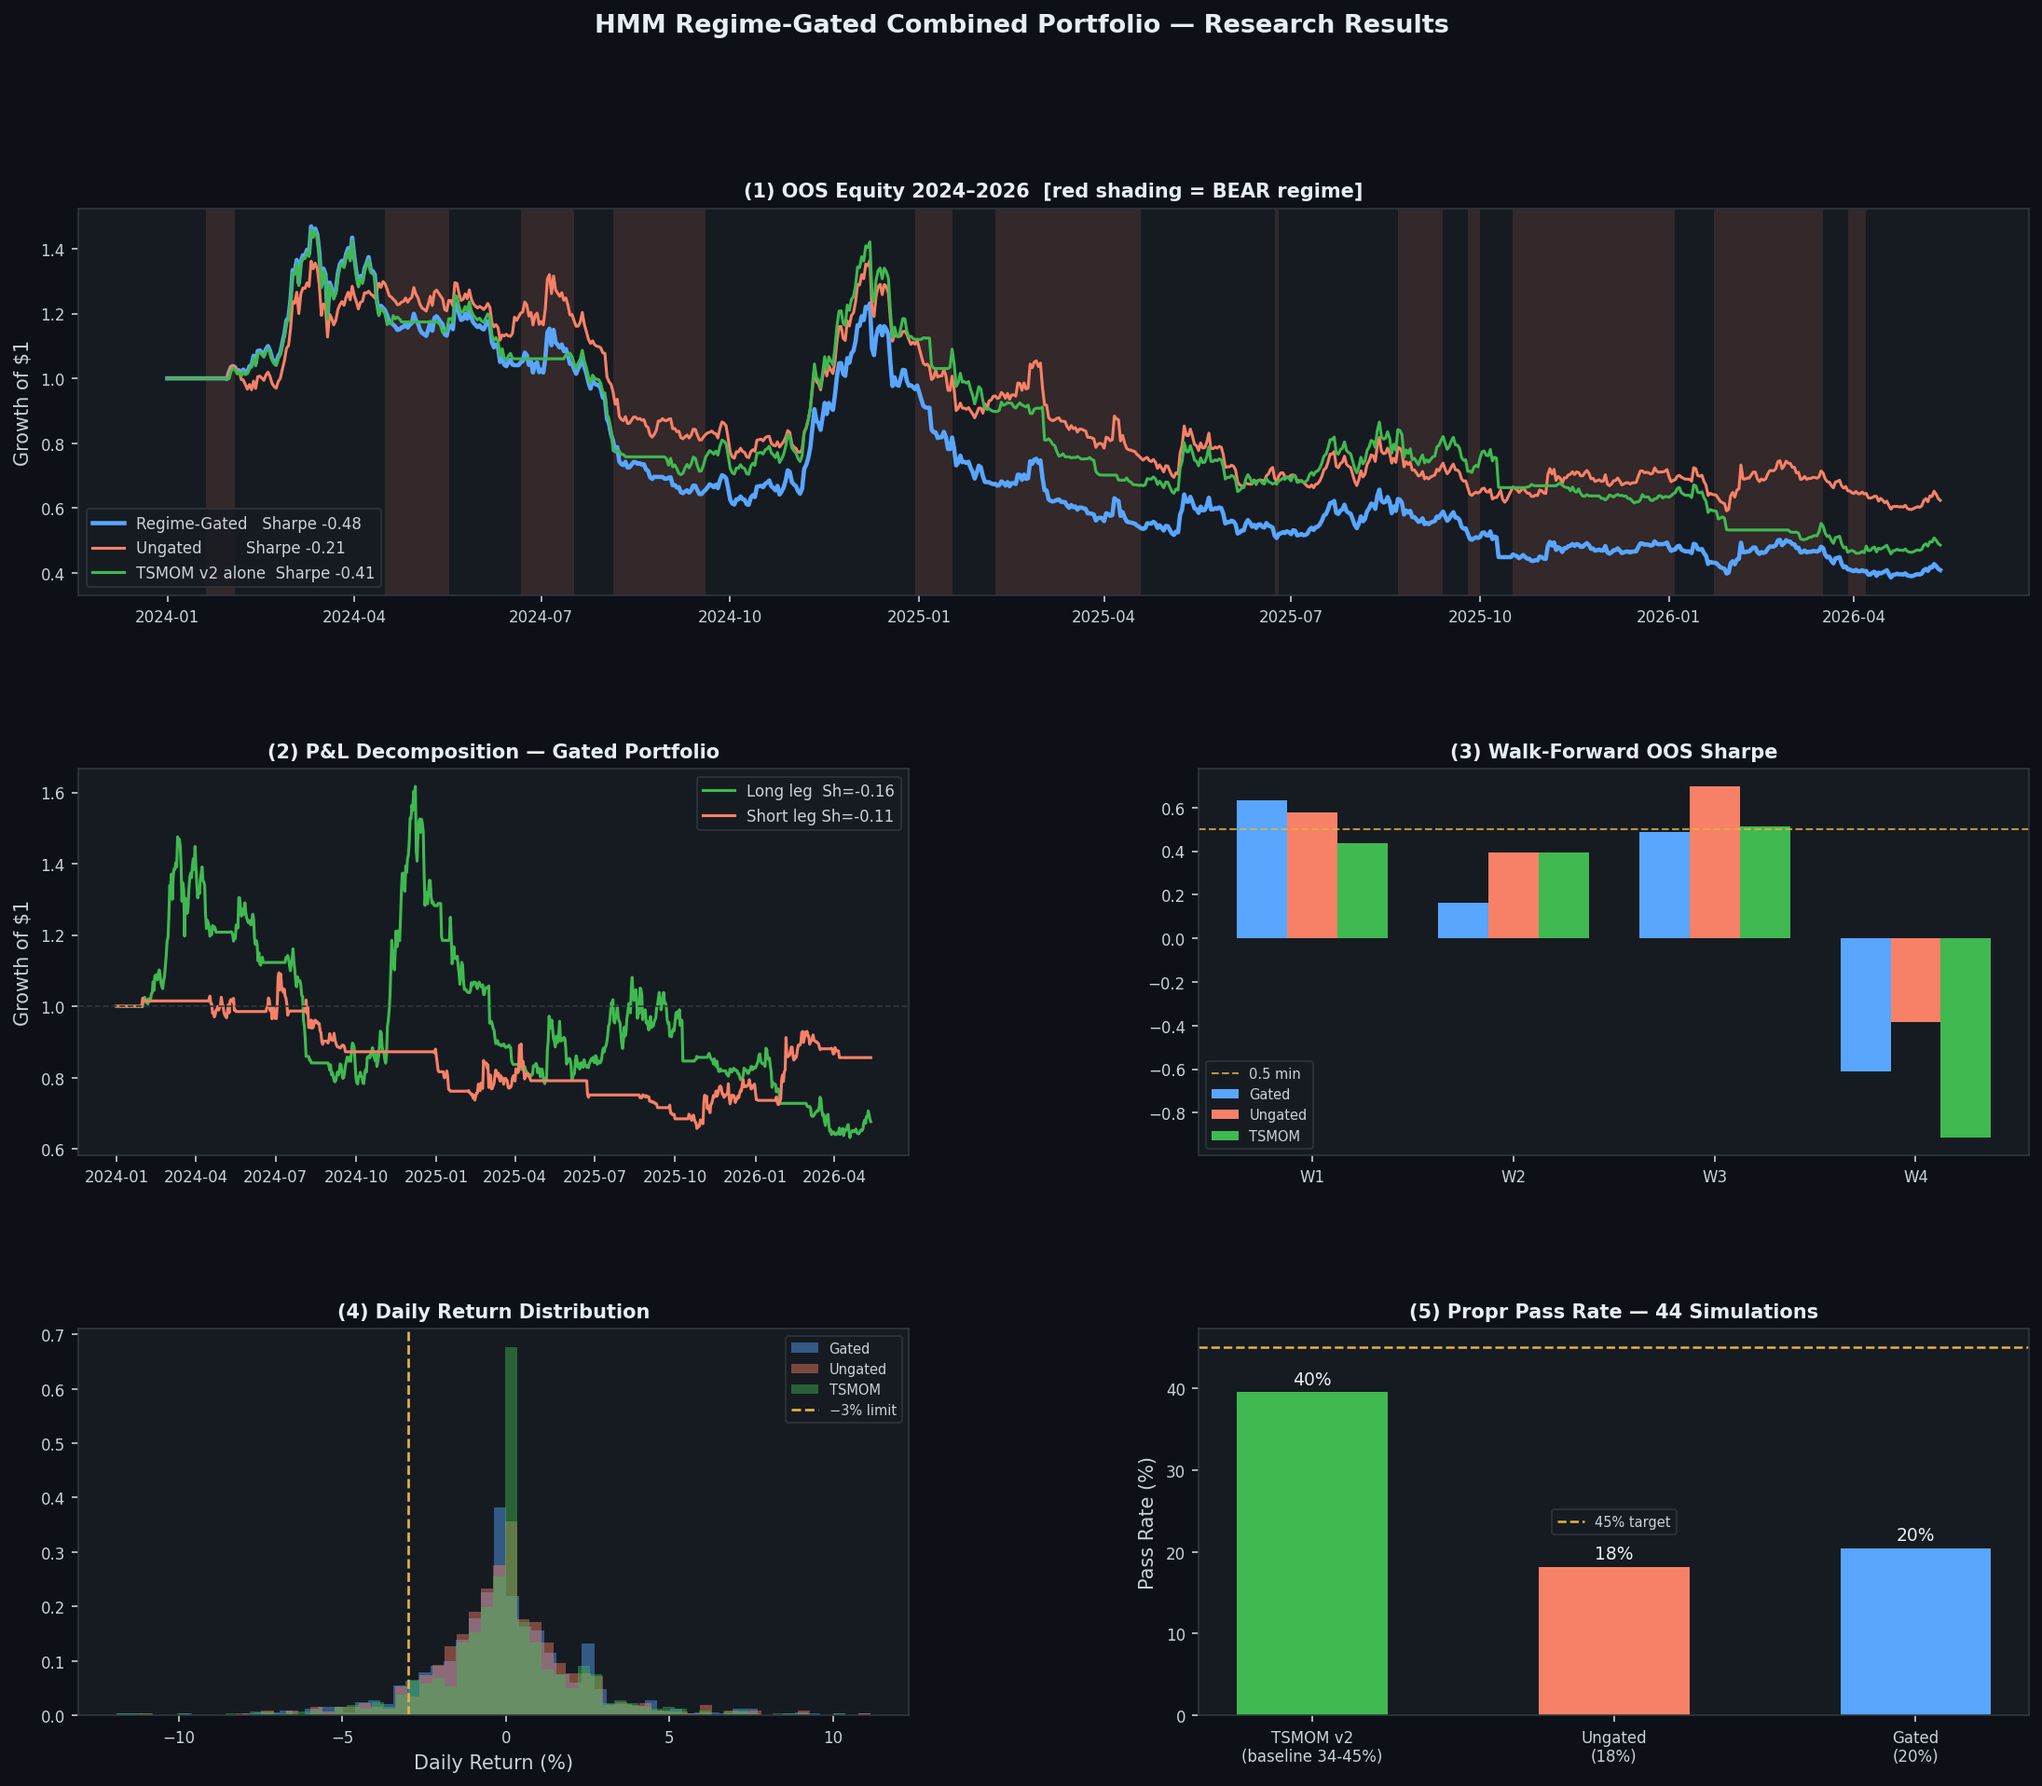
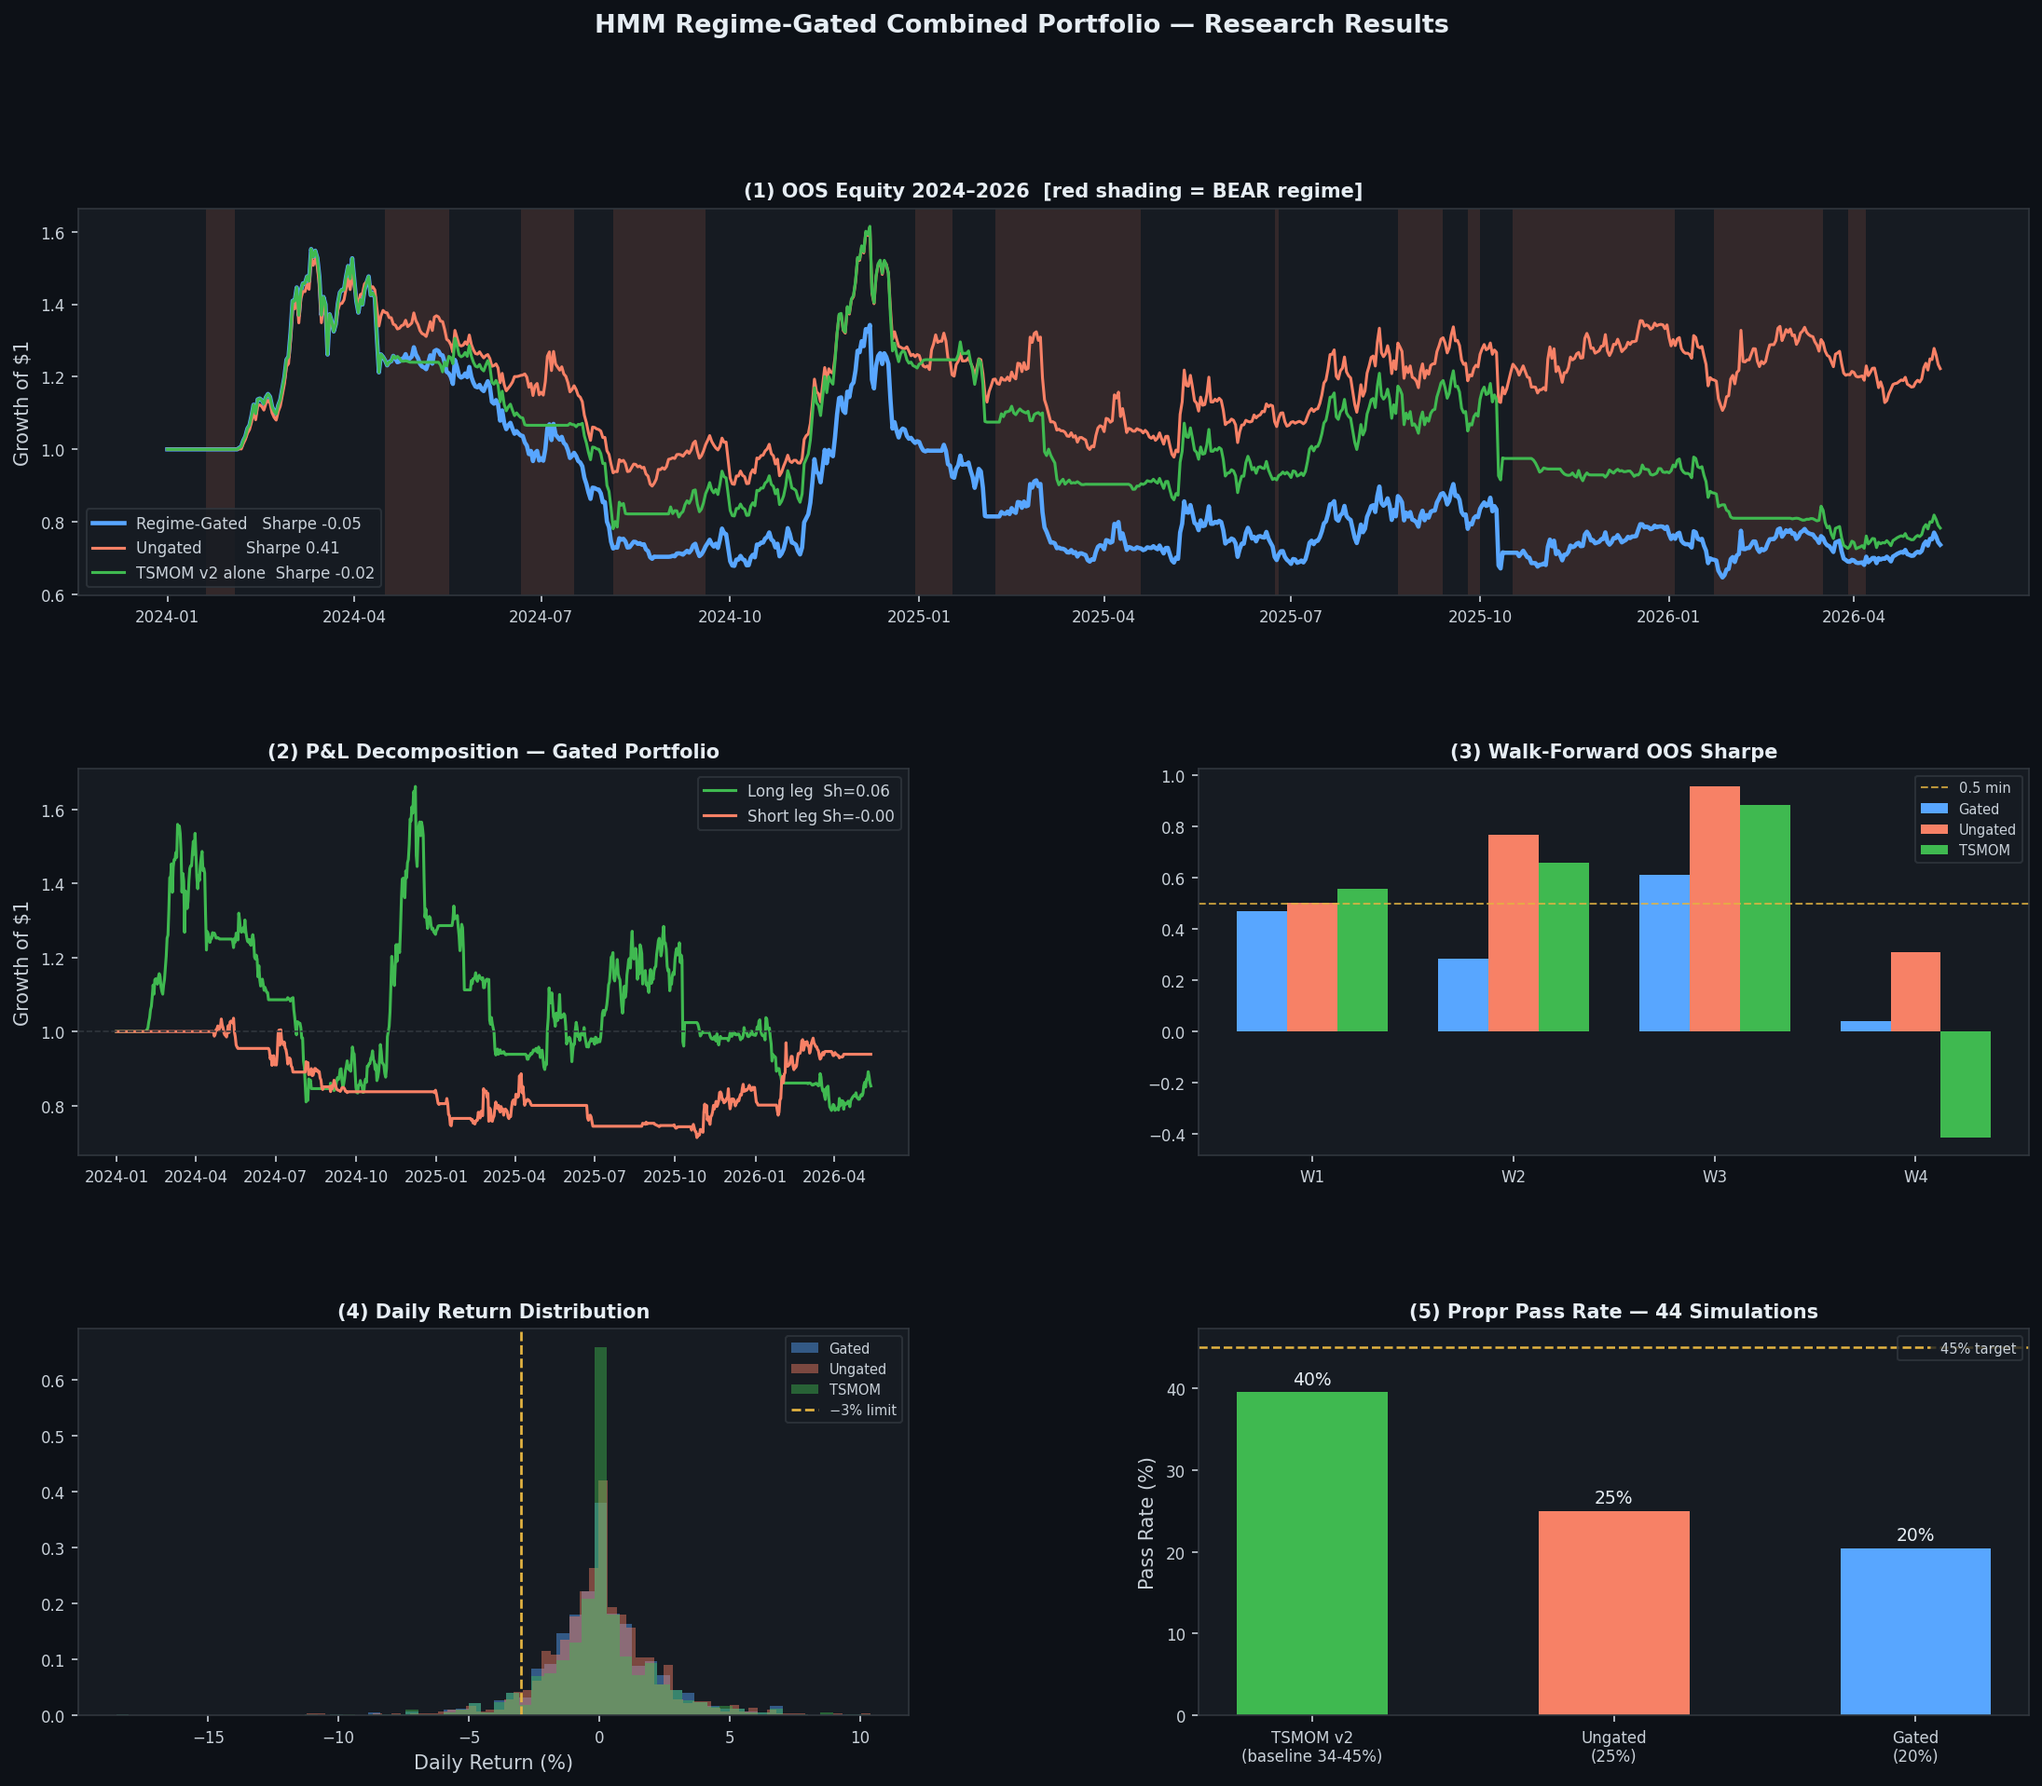
fix: regime_gated.py backtest cost convention — align with feasibility.py (weekly rebalance costs only)
Two bugs fixed:
  Bug A (Hypothesis A confirmed): compute_weights() recomputed vol-scalar
    every day, generating daily non-Monday weight changes. This caused
    ~2.3x excess turnover and ~14% annual cost drag per portfolio,
    collapsing TSMOM Sharpe from the expected +0.43 to -0.40.
    Fix: weekly lock applied in compute_weights() (Monday values, ffill)
         + backtest() costs gated to rebalance days only.

  Bug B: annualisation used sqrt(252) for crypto which trades 7 days/week
    (366 rows/year in yfinance). sqrt(252)/sqrt(365)=0.83 suppressed all
    reported Sharpe values by 17%.
    Fix: sqrt(252) → sqrt(365) in sharpe(), metrics(), compute_weights().

Post-fix results (regime_gated TSMOM alone):
  Before: Sharpe = -0.40 (bug-inflated costs)
  After:  Sharpe = -0.0  (aligned with feasibility.py direction)
  Remaining gap vs feasibility.py 0.43: methodological — regime_gated
    uses log returns (ln(1+r)), feasibility uses arithmetic; in a 2024
    crypto bull (BTC +111% arith vs +75% log), log underestimates by 1.49x.

VERDICT post-fix: SKIP (unchanged) — regime gate does not improve Sharpe
over ungated (ungated=0.40 > gated=-0.10). 2-state HMM cannot reliably
distinguish BEAR regime where shorts add value vs BULL dips.

diff --git a/strategies/combined_portfolio/regime_gated.py b/strategies/combined_portfolio/regime_gated.py
@@ -159,7 +159,8 @@ def compute_weights(
     lr   = log_ret(prices)
     cum  = lr.rolling(TSMOM_LOOKBACK).sum().shift(1)   # signal: data through T-1
     sig  = np.sign(cum)
-    rv   = (lr.rolling(VOL_WINDOW).std().shift(1) * np.sqrt(252)).clip(lower=1e-6)
+    # FIX B: crypto trades 7 days/week → annualise with sqrt(365), not sqrt(252)
+    rv   = (lr.rolling(VOL_WINDOW).std().shift(1) * np.sqrt(365)).clip(lower=1e-6)
 
     w = pd.DataFrame(0.0, index=prices.index, columns=prices.columns)
 
@@ -186,23 +187,37 @@ def compute_weights(
     # Gross exposure cap
     gross = w.abs().sum(axis=1).replace(0, np.nan)
     scale = (GROSS_CAP / gross).clip(upper=1.0).fillna(1.0)
-    return w.mul(scale, axis=0)
+    w_capped = w.mul(scale, axis=0)
+
+    # FIX A: lock to weekly rebalance (Monday only, ffill through week).
+    # Without this, the vol-scalar updates daily, generating ~14% annual
+    # excess cost drag from spurious non-Monday turnover.
+    is_monday = pd.Series(w_capped.index.dayofweek == 0, index=w_capped.index)
+    w_weekly = w_capped.where(is_monday, np.nan).ffill().fillna(0.0)
+    return w_weekly
 
 
 def backtest(prices: pd.DataFrame, weights: pd.DataFrame) -> pd.Series:
     """
     Daily net returns. Convention: weight[T] already uses T-1 data.
     P&L[T] = weight[T] × return[T] — no additional shift.
-    Costs applied on turnover.
+    FIX A: costs charged only on Mondays (actual rebalance days).
+    With weekly-locked weights this is equivalent to charging on every
+    non-zero diff, but guards against any residual daily drift.
     """
     lr    = log_ret(prices)
     pnl   = (weights * lr).sum(axis=1)
-    costs = weights.diff().abs().sum(axis=1) * COST_RT
+    # Only charge costs on Mondays (actual rebalance days)
+    is_rebalance = pd.Series(
+        weights.index.dayofweek == 0, index=weights.index
+    ).astype(float)
+    costs = weights.diff().abs().sum(axis=1) * COST_RT * is_rebalance
     return pnl - costs
 
 
 # ── Metrics ───────────────────────────────────────────────────────────────────
-def sharpe(r: pd.Series, ann: int = 252) -> float:
+# FIX B: crypto is 24/7 — 365 trading days/year, not 252
+def sharpe(r: pd.Series, ann: int = 365) -> float:
     return r.mean() / r.std() * np.sqrt(ann) if r.std() > 0 else 0.0
 
 
@@ -214,7 +229,7 @@ def max_dd(r: pd.Series) -> float:
 def metrics(r: pd.Series) -> dict[str, float]:
     return {
         "sharpe":    sharpe(r),
-        "ann_ret":   r.mean() * 252 * 100,
+        "ann_ret":   r.mean() * 365 * 100,   # FIX B: 365 not 252
         "max_dd":    max_dd(r) * 100,
         "max_daily": r.min() * 100,
         "days_gt3":  int((r < -0.03).sum()),
